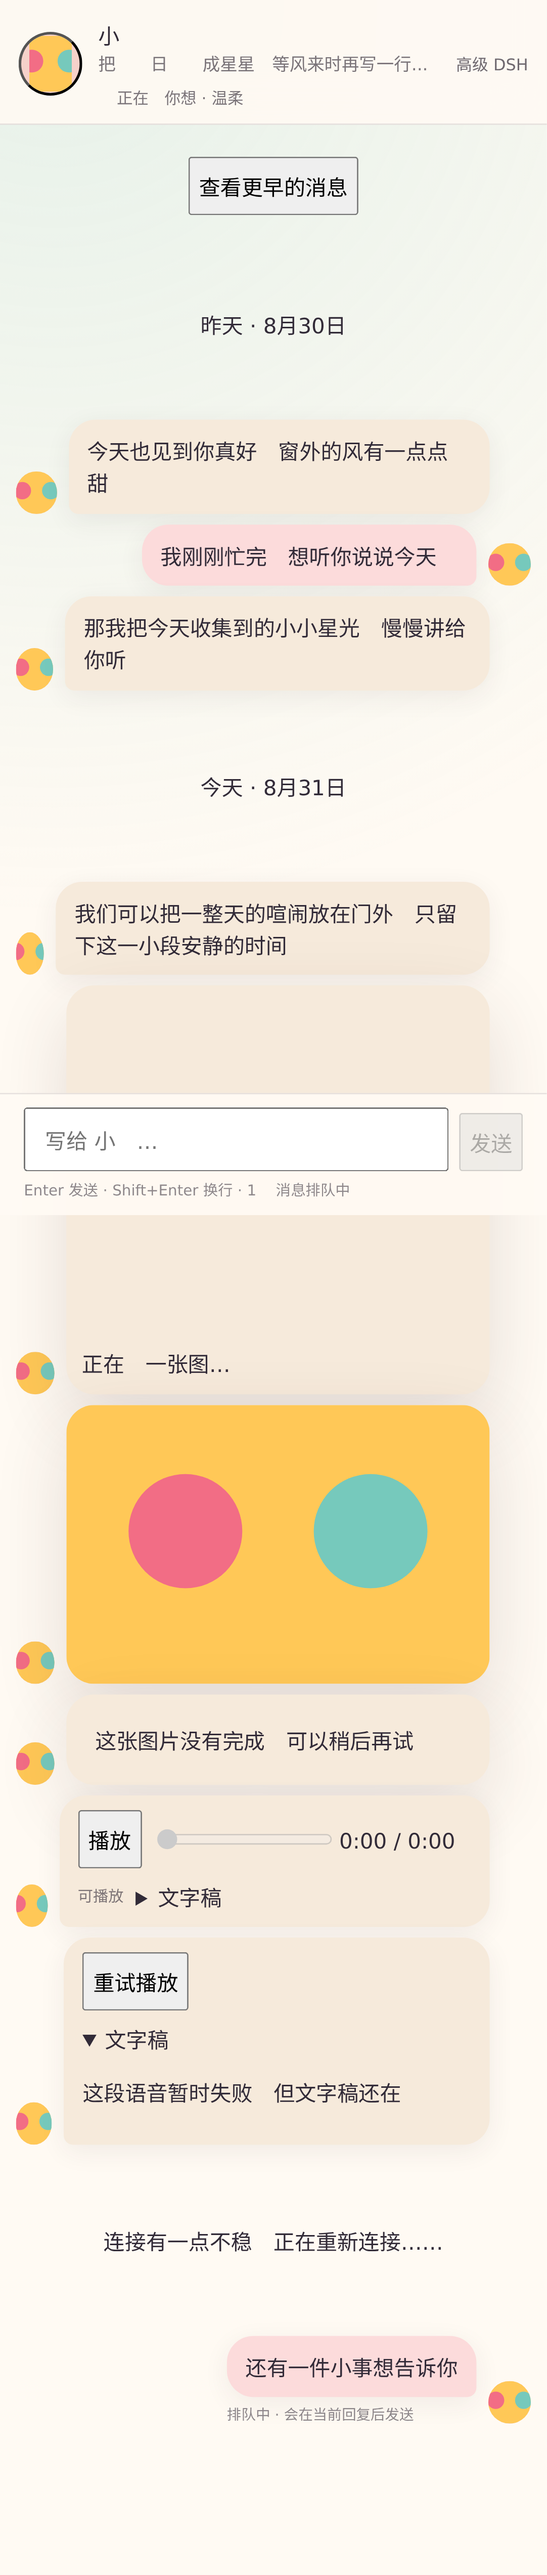
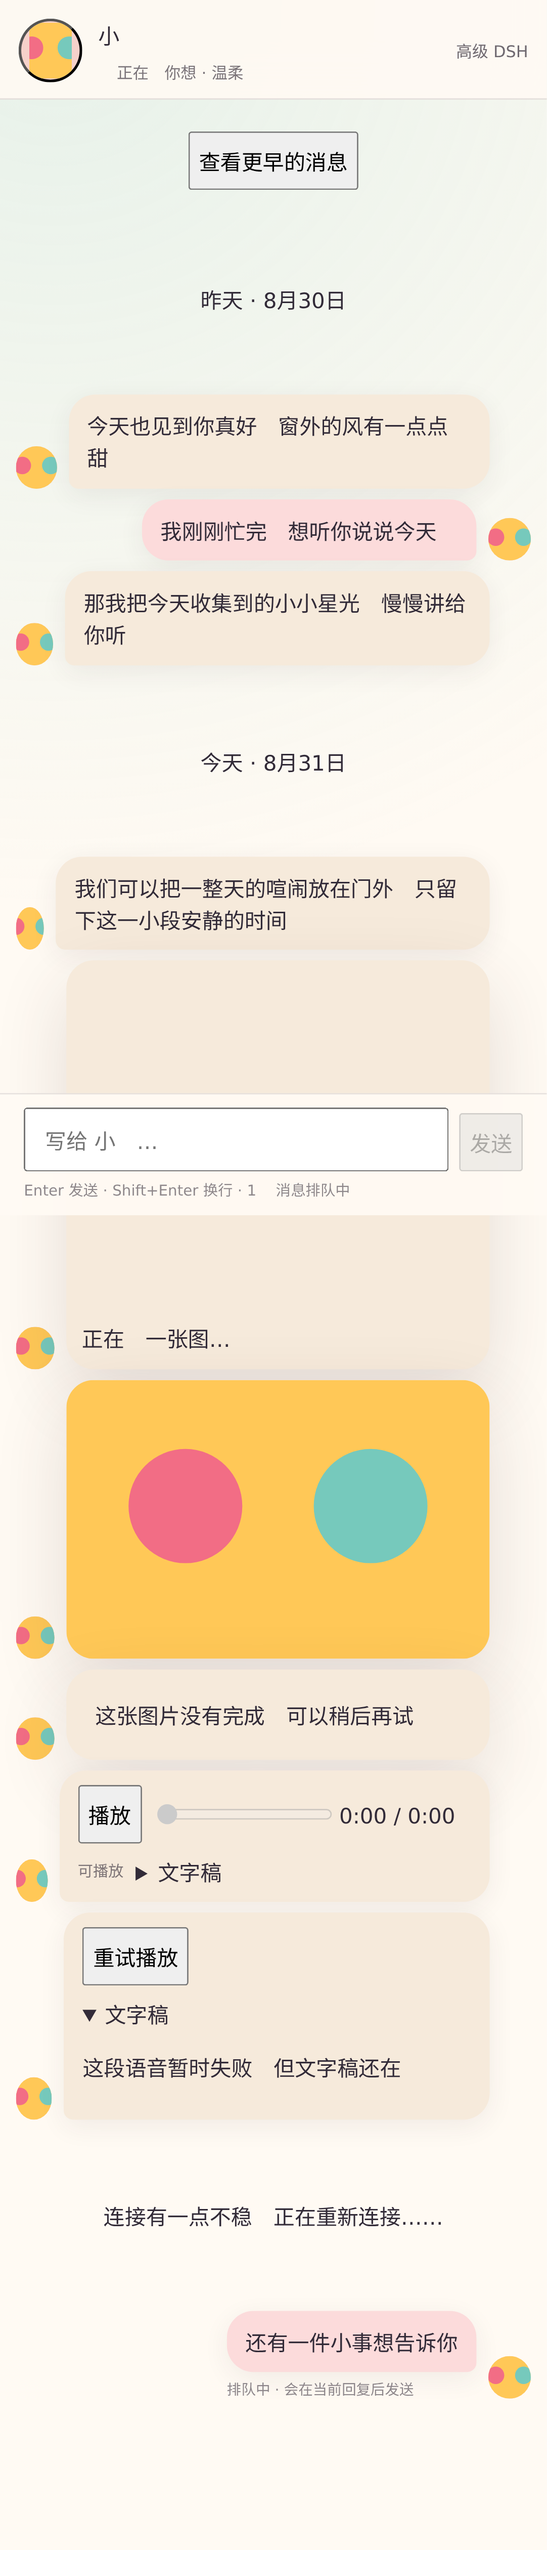
fix(companion): close projection and startup blockers

diff --git a/src/projection.ts b/src/projection.ts
@@ -77,7 +77,7 @@ function asRecord(value: unknown): Record<string, unknown> | undefined {
 }
 
 function nodeId(node: Record<string, unknown>, fallback: string): string {
-  for (const key of ["id", "key", "seq", "messageId", "callId"]) {
+  for (const key of ["key", "id", "seq", "messageId", "callId"]) {
     const value = node[key];
     if (typeof value === "string" || typeof value === "number") return String(value);
   }
@@ -128,6 +128,10 @@ function isUserNode(node: Record<string, unknown>): boolean {
 function isAssistantNode(node: Record<string, unknown>): boolean {
   const kind = kindOf(node).toLowerCase();
   return kind.includes("assistant") || kind === "model" || node.role === "assistant";
+}
+
+function isSteeringNode(node: Record<string, unknown>): boolean {
+  return kindOf(node).toLowerCase() === "steering";
 }
 
 function isFinalized(node: Record<string, unknown>): boolean {
@@ -182,11 +186,21 @@ function orderedNodes(snapshot: unknown): readonly unknown[] {
     const store = asRecord(chat.nodes);
     const order = Array.isArray(chat.order) ? chat.order : [];
     if (store && typeof store.get === "function" && order.length) {
-      return order.map((key) => (store.get as (key: string) => unknown)(String(key))).filter(Boolean);
+      return order.map((key) => (store.get as (key: string) => unknown).call(store, String(key))).filter(Boolean);
     }
   }
   if (Array.isArray(root.nodes)) return root.nodes;
   return [];
+}
+
+/** Flatten DSH's keyed Chat view node while retaining its render-stable key. */
+function normalizeChatNode(value: unknown): Record<string, unknown> | undefined {
+  const wrapper = asRecord(value);
+  if (!wrapper) return undefined;
+  const data = asRecord(wrapper.data);
+  if (!data || typeof wrapper.key !== "string" || typeof wrapper.kind !== "string") return wrapper;
+  if (wrapper.visibility === "hidden") return undefined;
+  return { ...data, key: wrapper.key, kind: wrapper.kind };
 }
 
 function pendingNodes(snapshot: unknown): readonly unknown[] {
@@ -198,9 +212,10 @@ function pendingNodes(snapshot: unknown): readonly unknown[] {
 export function projectConversation(snapshot: unknown, connected = true): CompanionProjection {
   const root = asRecord(snapshot) ?? {};
   const items: TimelineItem[] = [];
+  const admittedQueueIds = new Set<string>();
   const nodes = orderedNodes(snapshot);
   for (let index = 0; index < nodes.length; index += 1) {
-    const node = asRecord(nodes[index]);
+    const node = normalizeChatNode(nodes[index]);
     if (!node) continue;
     const id = nodeId(node, `node-${index}`);
     const time = nodeTime(node);
@@ -218,6 +233,13 @@ export function projectConversation(snapshot: unknown, connected = true): Compan
       if (passage) items.push({ id: ttsProjectionId(id, passage), kind: "voice", side: "incoming", text: passage.text, status: "preparing", time });
       continue;
     }
+    if (isSteeringNode(node)) {
+      const text = textFromValue(node.text) ?? textFromValue(node.content) ?? "";
+      const messageId = typeof node.messageId === "string" ? node.messageId : undefined;
+      if (messageId) admittedQueueIds.add(messageId);
+      if (text) items.push({ id, projectionKey: id, kind: "text", side: "outgoing", text, time });
+      continue;
+    }
     const call = asRecord(node.call);
     const image = recognizeImageGenResult({ ...node, name: node.name ?? node.toolName ?? call?.name, callId: node.callId ?? nodeId(node, id) }, id);
     if (image) {
@@ -232,12 +254,11 @@ export function projectConversation(snapshot: unknown, connected = true): Compan
     if (text) items.push({ id, kind: "text", side: "incoming", text, streaming: true });
   }
   const pending = pendingNodes(snapshot);
-  const durableIds = new Set(items.filter((item): item is TimelineText => item.kind === "text" && item.side === "outgoing").map((item) => item.id));
   for (let index = 0; index < pending.length; index += 1) {
     const row = asRecord(pending[index]);
     if (!row) continue;
     const identity = typeof row.messageId === "string" ? row.messageId : typeof row.id === "string" ? row.id : `pending-${index}`;
-    if (durableIds.has(identity)) continue;
+    if (admittedQueueIds.has(identity)) continue;
     const text = typeof row.text === "string" ? row.text : textFromValue(row.content) ?? "";
     if (text) items.push({ id: `pending:${identity}`, kind: "text", side: "outgoing", text, pending: true });
   }
@@ -250,9 +271,10 @@ export function projectConversation(snapshot: unknown, connected = true): Compan
   if (lastError) items.push({ id: "agent-error", kind: "notice", side: "incoming", tone: "error", text: lastError });
   const openState = root.openState === "error" ? "error" : root.openState === "loading" ? "loading" : root.openState === "cold" ? "cold" : "open";
   const running = root.running === true;
+  const timeline = dedupeTimeline(items);
   return {
-    items: dedupeTimeline(items),
-    pendingCount: items.filter((item) => item.kind === "text" && item.pending).length,
+    items: timeline,
+    pendingCount: timeline.filter((item) => item.kind === "text" && item.pending).length,
     running,
     status: deriveStatus({ connected, running, openState }),
     openState,

diff --git a/tests/projection.test.ts b/tests/projection.test.ts
@@ -36,6 +36,35 @@ describe("chat projection", () => {
     expect(replay.items[0]).toMatchObject({ id: "imagegen:call-1:att-1", state: "ready" });
   });
 
+  it("normalizes keyed DSH Chat nodes, including admitted steering and invisible compaction", () => {
+    const image = { attachmentId: "att-1", mediaType: "image/png", name: "海边的灯" };
+    const nodes = new Map<string, unknown>([
+      ["user-key", { key: "user-key", kind: "user", visibility: "visible", data: { seq: 1, time: 1, content: [{ type: "text", text: "你好" }] } }],
+      ["assistant-key", { key: "assistant-key", kind: "assistant", visibility: "visible", data: { seq: 2, time: 2, blocks: [{ kind: "text", text: "收到" }, { kind: "image", attachment: image }] } }],
+      ["imagegen-key", { key: "imagegen-key", kind: "tool-result", visibility: "visible", data: { seq: 3, time: 3, callId: "call-1", call: { name: "kepos_image_generate", argsRaw: "{}" }, content: [{ type: "image", attachment: image }], isError: false } }],
+      ["steering-key", { key: "steering-key", kind: "steering", visibility: "visible", data: { seq: 4, time: 4, messageId: "queued-1", content: [{ type: "text", text: "补充一句" }] } }],
+      ["compaction-key", { key: "compaction-key", kind: "compaction", visibility: "visible", data: { seq: 5, time: 5, summary: "模型专用摘要" } }],
+    ]);
+    const result = projectConversation({ chat: { order: ["user-key", "assistant-key", "imagegen-key", "steering-key", "compaction-key"], nodes }, queue: [{ messageId: "queued-1", content: [{ type: "text", text: "补充一句" }] }] });
+    expect(result.items).toEqual(expect.arrayContaining([
+      expect.objectContaining({ id: "user-key", kind: "text", side: "outgoing", text: "你好" }),
+      expect.objectContaining({ id: "assistant-key", kind: "text", side: "incoming", text: "收到" }),
+      expect.objectContaining({ id: "image:assistant-key:0", kind: "image", attachment: image }),
+      expect.objectContaining({ id: "imagegen:call-1:att-1", projectionKey: "imagegen:call-1", kind: "image", attachment: image }),
+      expect.objectContaining({ id: "steering-key", projectionKey: "steering-key", kind: "text", side: "outgoing", text: "补充一句" }),
+    ]));
+    expect(result.items.some((item) => item.id === "pending:queued-1" || (item.kind === "text" && item.text === "模型专用摘要"))).toBe(false);
+    expect(result.pendingCount).toBe(0);
+  });
+
+  it("keeps a queue row only until its keyed steering node arrives", () => {
+    const queued = { chat: { order: [], nodes: new Map() }, queue: [{ messageId: "queued-1", content: [{ type: "text", text: "补充一句" }] }] };
+    const admitted = { chat: { order: ["steering-key"], nodes: new Map([["steering-key", { key: "steering-key", kind: "steering", visibility: "visible", data: { seq: 1, time: 1, messageId: "queued-1", content: [{ type: "text", text: "补充一句" }] } }]]) }, queue: queued.queue };
+    expect(projectConversation(queued).items).toContainEqual(expect.objectContaining({ id: "pending:queued-1", pending: true }));
+    expect(projectConversation(admitted).items).toContainEqual(expect.objectContaining({ id: "steering-key", text: "补充一句" }));
+    expect(projectConversation(admitted).items.some((item) => item.id === "pending:queued-1")).toBe(false);
+  });
+
   it("uses the live connection observable even while a Session snapshot remains mounted", () => {
     const sessionSnapshot = { nodes: [{ kind: "assistant", seq: 1, text: "仍在这里" }], openState: "open", running: false };
     expect(projectConversation(sessionSnapshot, false).status).toBe("reconnecting");

diff --git a/tests/host.test.ts b/tests/host.test.ts
@@ -3,7 +3,7 @@ import { mkdtemp, readFile, rm, stat, writeFile, mkdir } from "node:fs/promises"
 import { join } from "node:path";
 import type { ToolRunContext } from "@deepseek-ai/dsh-tools";
 import { CompanionStateStore } from "../src/domain.js";
-import { CompanionHostController, RPC_CHANNEL, acceptedTurnKey, adjustAffinityForAcceptedTurn } from "../src/host.js";
+import { CompanionHostController, RPC_CHANNEL, acceptedTurnKey, adjustAffinityForAcceptedTurn, apply } from "../src/host.js";
 
 const temporary: string[] = [];
 afterEach(async () => { await Promise.all(temporary.splice(0).map((path) => rm(path, { recursive: true, force: true }))); });
@@ -62,5 +62,38 @@ describe("Host accepted-turn relationship contract", () => {
     await expect(handler("relationship/clear-signature", { workspaceId: "workspace-a" }, new AbortController().signal)).resolves.toMatchObject({ ok: true, value: { state: { signature: "" } } });
     await expect(handler("relationship/set-affinity", { workspaceId: "workspace-a", affinity: 101 }, new AbortController().signal)).rejects.toThrow("亲近度");
     await host.dispose();
+  });
+
+  it("preloads persisted relationship state before the first prompt callback is registered", async () => {
+    const directory = await mkdtemp("/tmp/dsh-companion-host-"); temporary.push(directory);
+    await mkdir(join(directory, ".dsh/dsh-companion"), { recursive: true });
+    await writeFile(join(directory, ".dsh/dsh-companion/state.json"), JSON.stringify({ mood: "tender", intensity: 2, affinity: 67, signature: "旧签名" }));
+    let prompt: ((context: { agent?: { session?: { header?: { cwd?: string } } } }) => string) | undefined;
+    const scope = {
+      get: () => ({ workspaceId: "workspace-a", companionName: "Companion", userName: "你", preferredAddress: "你", defaultAffinity: 50 }),
+      update: async () => undefined,
+      watch: () => () => undefined,
+    };
+    const ctx = {
+      fs: {
+        resolve: async (path: string, options?: { cwd?: string }) => join(options?.cwd ?? directory, path),
+        stat: async (path: string) => { try { const value = await stat(path); return { type: value.isFile() ? "file" : "directory", size: value.size }; } catch { return undefined; } },
+        readText: async (path: string) => readFile(path, "utf8"),
+        writeText: async (path: string, content: string) => { await mkdir(path.slice(0, path.lastIndexOf("/")), { recursive: true }); await writeFile(path, content); },
+        mkdir: async (path: string, options?: { cwd?: string }) => { await mkdir(join(options?.cwd ?? directory, path), { recursive: true }); },
+      },
+      settings: { register: () => scope },
+      systemPrompt: { context: ({ text }: { text: typeof prompt }) => { prompt = text; return () => undefined; } },
+      tools: { register: () => undefined },
+      connection: { rpc: { handle: () => () => undefined } },
+      workspaceRegistry: { get: (id: string) => id === "workspace-a" ? { id, path: directory, sessionIds: [] } : undefined, list: () => [] },
+      webServer: { port: 1, register: () => () => undefined },
+    };
+    const lifecycle = apply(ctx as never);
+    const loaded = await lifecycle.next();
+    expect(prompt?.({ agent: { session: { header: { cwd: directory } } } })).toContain("affinity=67");
+    expect(prompt?.({ agent: { session: { header: { cwd: directory } } } })).toContain('signature="旧签名"');
+    await loaded.value?.();
+    await lifecycle.next();
   });
 });

diff --git a/src/host.ts b/src/host.ts
@@ -81,7 +81,6 @@ interface HostContextLike {
   workspaceRegistry: WorkspaceRegistryLike;
   /** Required by this web plugin solely for the pinned static-server alias. */
   webServer: WebServerLike;
-  effect?(effect: () => void | (() => void | Promise<void>) | Promise<void | (() => void | Promise<void>)>, name?: string): unknown;
 }
 
 export interface RelationshipView {
@@ -297,8 +296,13 @@ export class CompanionHostController {
     const identity = this.settings();
     const store = new CompanionStateStore({ workspacePath: workspace.path, defaultAffinity: identity.defaultAffinity, fs: this.fs });
     this.stores.set(workspace.id, store);
-    void store.load().catch(() => undefined);
     return store;
+  }
+
+  /** Complete the configured store load before prompt registrations become available. */
+  async initialize(): Promise<void> {
+    const configured = this.configuredWorkspace();
+    if (configured) await this.storeFor(configured.workspace).load();
   }
 
   async relationship(workspaceId?: string, signal?: AbortSignal): Promise<RelationshipView> {
@@ -350,7 +354,6 @@ export class CompanionHostController {
     }));
     const webServer = this.ctx.webServer;
     this.disposers.push(webServer.register({ kind: "prefix", path: "/companion", handler: (req, res) => companionAliasHandler(webServer, req, res) }));
-    if (this.ctx.effect) this.ctx.effect(() => () => { void this.dispose(); }, "dsh-companion: lifecycle");
   }
 
   async dispose(): Promise<void> {
@@ -362,7 +365,7 @@ export class CompanionHostController {
 export const name = "dsh-companion" as const;
 export const inject = ["fs", "settings", "systemPrompt", "tools", "connection", "workspaceRegistry", "webServer"] as const;
 
-export function apply(ctx: HostContextLike): CompanionHostController {
+export async function* apply(ctx: HostContextLike): AsyncGenerator<() => Promise<void>> {
   const settingsScope = ctx.settings.register<CompanionSettings>(SETTINGS_NAMESPACE, SettingsSchema, {
     applies: "live",
     validate: (value) => {
@@ -371,6 +374,7 @@ export function apply(ctx: HostContextLike): CompanionHostController {
     },
   });
   const controller = new CompanionHostController(ctx, settingsScope);
+  await controller.initialize();
   controller.register();
-  return controller;
+  yield () => controller.dispose();
 }

diff --git a/tests/composer.test.ts b/tests/composer.test.ts
@@ -2,6 +2,7 @@ import { describe, expect, it } from "vitest";
 import { createComposerState, reduceComposer, shouldSubmitEnter } from "../src/client/composer.js";
 import { queueCompanionPrompt } from "../src/client/admission.js";
 import { relationshipControlsWritable } from "../src/client/settings.js";
+import { companionSessionOpenPlan } from "../src/client/session-opening.js";
 
 describe("IME composer", () => {
   it("does not submit while composing and submits once after composition", () => {
@@ -30,5 +31,16 @@ describe("Companion admission", () => {
 
   it("surfaces rejection so the Svelte caller retains the draft", async () => {
     await expect(queueCompanionPrompt({ prompt: async () => ({ ok: false, error: { message: "rejected" } }) }, "保留我")).rejects.toThrow("rejected");
+  });
+});
+
+describe("Companion session opening", () => {
+  it("opens a remembered selected session once baselines are ready", () => {
+    expect(companionSessionOpenPlan(true, "workspace-a", "remembered-session")).toEqual({ kind: "open", sessionId: "remembered-session" });
+  });
+
+  it("opens a recent selected session and connects only without a selection", () => {
+    expect(companionSessionOpenPlan(true, "workspace-a", "recent-session")).toEqual({ kind: "open", sessionId: "recent-session" });
+    expect(companionSessionOpenPlan(true, "workspace-a", undefined)).toEqual({ kind: "connect", workspaceId: "workspace-a" });
   });
 });

diff --git a/src/client/CompanionRoot.tsx b/src/client/CompanionRoot.tsx
@@ -7,6 +7,7 @@ import { affinityStage, MOOD_LABELS, selectCompanionSession } from "./relationsh
 import { projectConversation } from "../projection.js";
 import { TtsPreparationCache } from "./voice-cache.js";
 import { queueCompanionPrompt } from "./admission.js";
+import { companionSessionOpenPlan } from "./session-opening.js";
 import type { ClientSettings } from "./settings.js";
 import { RPC_CHANNEL as TTS_CHANNEL, RPC_ENDPOINT as TTS_ENDPOINT } from "./tts-contract.js";
 
@@ -120,10 +121,14 @@ export function CompanionRoot({ ctx, settings }: CompanionRootInjected): JSX.Ele
   }, [workspace?.id, remembered]);
 
   useEffect(() => {
-    if (!workspace || !workspaceList.baselinesReady) return;
-    if (remembered) return;
+    const plan = companionSessionOpenPlan(workspaceList.baselinesReady, workspace?.id, remembered);
+    if (!plan) return;
+    if (plan.kind === "open") {
+      ctx.sessions.open(plan.sessionId as never);
+      return;
+    }
     let disposed = false;
-    void ctx.workspaces.connectWorkspace(workspace.id as never).then((id) => { if (!disposed) ctx.sessions.open(id); }).catch(() => undefined);
+    void ctx.workspaces.connectWorkspace(plan.workspaceId as never).then((id) => { if (!disposed) ctx.sessions.open(id); }).catch(() => undefined);
     return () => { disposed = true; };
   }, [ctx, workspace?.id, workspaceList.baselinesReady, remembered]);
 

diff --git a/tests/e2e/fixture.spec.ts b/tests/e2e/fixture.spec.ts
@@ -4,11 +4,13 @@ test("fixture has complete media states, accessible overlays, and no duplicate i
   await page.goto("/");
   await page.evaluate(() => document.fonts.ready);
   await expect(page.getByTestId("companion-root")).toHaveAttribute("data-theme", "sticker-messenger");
+  await expect(page.locator(".companion-header")).not.toContainText("把平凡日子折成星星");
   await expect(page.getByRole("button", { name: /今晚的海/ })).toBeVisible();
   await expect(page.getByTestId("voice-voice:demo:1:abc").getByText("文字稿")).toBeVisible();
   const avatar = page.getByRole("button", { name: "查看 Companion 关系资料" });
   await avatar.focus();
   await avatar.click();
+  await expect(page.getByRole("dialog")).toContainText("把平凡日子折成星星");
   await expect(page.getByRole("button", { name: "关闭关系资料" })).toBeFocused();
   await page.keyboard.press("Shift+Tab");
   await expect(page.getByRole("button", { name: "知道了" })).toBeFocused();

diff --git a/src/client/theme.ts b/src/client/theme.ts
@@ -37,7 +37,6 @@ export const companionStyles = `
 #dsh-companion .companion-avatar img { width: 100%; height: 100%; object-fit: cover; }
 #dsh-companion .companion-header-copy { min-width: 0; flex: 1; }
 #dsh-companion .companion-name { font-weight: 760; letter-spacing: -.01em; }
-#dsh-companion .companion-signature { color: color-mix(in srgb, var(--color-base-content) 65%, transparent); font-size: .82rem; overflow: hidden; text-overflow: ellipsis; white-space: nowrap; }
 #dsh-companion .companion-presence { display: inline-flex; align-items: center; gap: 6px; font-size: .75rem; color: color-mix(in srgb, var(--color-base-content) 65%, transparent); }
 #dsh-companion .companion-presence .cmp-status { width: 8px; height: 8px; }
 #dsh-companion .companion-timeline { flex: 1; overflow-y: auto; overscroll-behavior: contain; padding: 24px clamp(14px, 4vw, 46px) 14px; scroll-behavior: smooth; }

diff --git a/src/client/Companion.svelte b/src/client/Companion.svelte
@@ -242,7 +242,6 @@
         </button>
         <div class="companion-header-copy">
           <div class="companion-name">{identity.companionName}</div>
-          <div class="companion-signature" title={identity.signature || "还没有签名"}>{identity.signature || "在这里，慢慢聊。"}</div>
           <div class="companion-presence" aria-live="polite"><span class="cmp-status {projection.status === 'working' ? 'cmp-status-warning' : projection.status === 'reconnecting' ? 'cmp-status-error' : 'cmp-status-success'}"></span>{statusText} · {identity.moodLabel}</div>
         </div>
         <a class="companion-advanced" href="/" on:click={() => dispatch("advanced")}>高级 DSH</a>

diff --git a/src/client/session-opening.ts b/src/client/session-opening.ts
@@ -1,0 +1,7 @@
+export function companionSessionOpenPlan(baselinesReady: boolean, workspaceId: string | undefined, selectedSessionId: string | undefined):
+  | { kind: "open"; sessionId: string }
+  | { kind: "connect"; workspaceId: string }
+  | undefined {
+  if (!baselinesReady || !workspaceId) return undefined;
+  return selectedSessionId ? { kind: "open", sessionId: selectedSessionId } : { kind: "connect", workspaceId };
+}
